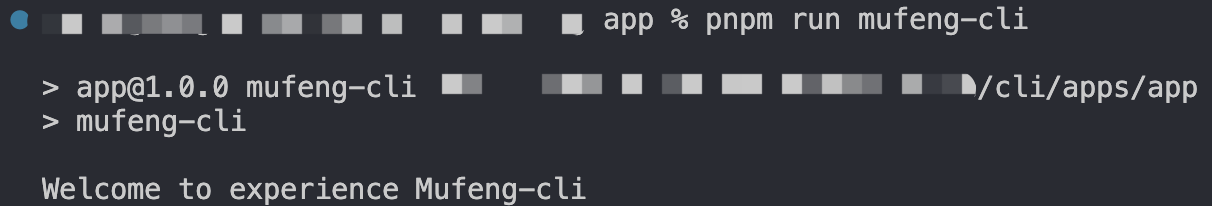
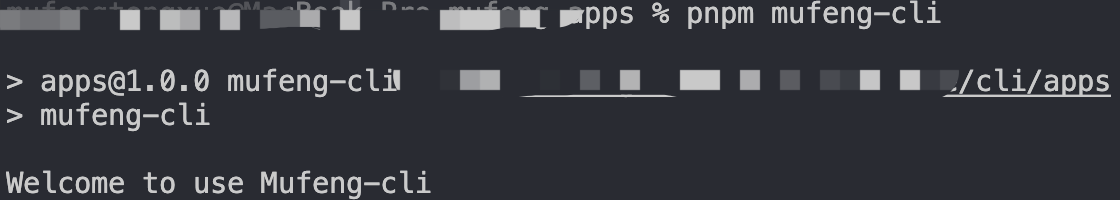
feat: update cli

Changed region(s): [[0.0, 0.33, 1.0, 0.66], [0.0, 0.0, 0.8438, 0.18], [0.0, 0.84, 0.5, 1.0]]

diff --git a/docs/src/summary-middle/engineering/cli.md b/docs/src/summary-middle/engineering/cli.md
@@ -17,7 +17,7 @@ Node版本: v18.20.2（pnpm需要）
 
 关于 monorepo 可以参考 <a href="/blog/summary-middle/engineering/monorepo" target="_blank">Monorepo</a>。
 
-## 前提: 全局安装 pnpm
+### 前提: 全局安装 pnpm
 
 ```js
 npm install pnpm -g
@@ -32,14 +32,19 @@ npm install pnpm -g
 ```yml
 packages:
   - 'packages/*'
-  - 'apps/*'
+  - 'apps/**'
 ```
+
+> [!TIP]
+>
+> * **packaegs/\*** 表示 packages 所有直接子目录
+> * **apps/\*\*** 表示 apps 下所有目录
 
 配置后, 声明了 packages 和 apps 目录中子工程是同属一个工作空间的, 工作空间中的子工程编译打包的产物都可以被其它子工程引用。
 
 ### 3、在 packages下初始化项目
 
-在根目录下创建 packages 目录, 并在 packages 目录中新建 cli 目录。
+在根目录下创建 packages 目录, 并在 packages 目录中新建 mufeng-cli 目录。
 
 通过 `pnpm init` 命令来初始化一个工程。
 
@@ -67,12 +72,12 @@ packages:
 >
 > * **package.json** 中 bin 字段用于定义一个或多个项目的可执行文件的路径。当在全局安装一个 npm 包时, npm 会查找 bin 字段, 并将其指定的可执行文件创建一个符号链接到全局的 **node_modules/.bin** 目录下, 这样就可以在命令行中直接运行这些可执行文件了。
 
-在 `packages/cli` 中创建 bin 目录, 并新建 index.js, 并在文件中添加如下代码:
+在 `packages/mufeng-cli` 中创建 bin 目录, 并新建 index.js, 并在文件中添加如下代码:
 
 ```js
 #!/usr/bin/env node
 
-console.log('Welcome to experience Mufeng-cli');
+console.log('Welcome to use Mufeng-cli');
 ```
 
 > [!TIP]
@@ -81,15 +86,15 @@ console.log('Welcome to experience Mufeng-cli');
 > * **/usr/bin/env** 是一个 Unix/Linux 系统中用来查找环境中的可执行文件的标准路径, **node** 是 Node.js 的可执行文件名。
 > * 具体来说, 就是告诉操作系统在执行这个脚本时使用 node解释器。
 
-在根目录下创建 apps 目录, 并在 apps 目录中新建 app 目录。
+在根目录下创建 apps 目录。
 
 通过 `pnpm init` 命令来初始化一个工程。
 
-我们在 apps/app/pakeage.json 中添加 dependencies 字段, 来添加 mufeng-cli 依赖。再给 scripts 增加一条自定义脚本命令。完成后代码如下:
+我们在 apps/pakeage.json 中添加 dependencies 字段, 来添加 mufeng-cli 依赖。再给 scripts 增加一条自定义脚本命令。完成后代码如下:
 
 ```json
 {
-  "name": "app",
+  "name": "apps",
   "version": "1.0.0",
   "description": "",
   "main": "index.js",
@@ -108,7 +113,7 @@ console.log('Welcome to experience Mufeng-cli');
 
 然后在最外层根目录下运行 pnpm i 命令, 安装依赖。
 
-安装成功后, 在 app 目录下运行 pnpm mufeng-cli, 会发现命令行窗口打印出 Welcome to experience Mufeng-cli, 脚手架工程的搭建就成功了。
+安装成功后, 在 apps 目录下运行 pnpm mufeng-cli, 会发现命令行窗口打印出 Welcome to experience Mufeng-cli, 脚手架工程的搭建就成功了。
 
 ![mufeng-cli log](/imgs/summary-middle/engineering/cli_1.png)
 
@@ -118,9 +123,8 @@ console.log('Welcome to experience Mufeng-cli');
 |-- cli
   |-- node_modules
   |-- apps
-    |-- app
-      |-- node_modules
-      |-- package.json
+    |-- node_modules
+    |-- package.json
   |-- packages
     |-- mufeng-cli
       |-- bin
@@ -183,7 +187,7 @@ const yargs = require('yargs');
 console.log('name', yargs.argv.name);
 ```
 
-在 /apps/app 目录下运行 pnpm mufeng-cli --name=hello, 结果如图所示:
+在 /apps 目录下运行 pnpm mufeng-cli --name=hello, 结果如图所示:
 
 ![mufeng-cli yargs](/imgs/summary-middle/engineering/cli_2.png)
 
@@ -235,7 +239,7 @@ yargs.command(
 >
 > * .argv 的作用是告诉 yargs 库解析命令行参数, 并将解析后的结果存储在 argv 变量中, 以便在后续代码中使用。
 
-在 /apps/app 目录下分别运行 pnpm mufeng-cli create --name=hello 和 pnpm mufeng-cli c --name=hello 命令, 执行结果如下图所示:
+在 /apps 目录下分别运行 pnpm mufeng-cli create --name=hello 和 pnpm mufeng-cli c --name=hello 命令, 执行结果如下图所示:
 
 ![mufeng-cli create](/imgs/summary-middle/engineering/cli_3.png)
 
@@ -392,7 +396,7 @@ const cliInit = () => {
 cliInit();
 ```
 
-在/apps/app目录下执行 `pnpm mufeng-cli c --n=hello`, 结果如图所示：
+在 /apps 目录下执行 `pnpm mufeng-cli c --n=hello`, 结果如图所示：
 
 ![mufeng-cli inquirer](/imgs/summary-middle/engineering/cli_4.png)
 
@@ -409,3 +413,71 @@ cliInit();
 ```sh
 pnpm add copy-dir --F mufeng-cli
 ```
+
+在 /packages/mufeng-cli/bin 目录下新建 copy.js 文件, 代码如下：
+
+```js
+const fs = require('fs');
+const copydir = require('copy-dir');
+
+/**
+ * 复制文件
+ */
+const copyDir = (from, to, options) => {
+  copydir.sync(from, to, options);
+};
+
+/**
+ * 判断目录是否存在
+ */
+const checkMkdirExists = (path) => fs.existsSync(path);
+
+exports.copyDir = copyDir;
+exports.checkMkdirExists = checkMkdirExists;
+```
+
+在 packages/mufeng-cli 目录下新建 template 目录用来存放模版文件。
+
+比如在 template 目录中创建一个 vue 目录来存放 vue 项目模版，文件目录如下：
+
+```md
+|-- cli
+  |-- node_modules
+  |-- apps
+    |-- node_modules
+    |-- package.json
+  |-- packages
+    |-- mufeng-cli
+      |-- bin
+        |-- index.js
+      |-- template
+        |-- vue
+          |-- app.vue
+      |-- package.json
+  |-- package.json
+  |-- pnpm-lock.yaml
+  |-- pnpm-workspace.yaml
+
+```
+
+下面实现把 packages/mufeng-cli/template/vue 这个目录下的所有文件拷贝到 /apps 目录中。
+
+在 /packages/mufeng-cli/bin/index.js 代码：
+
+```js
+
+```
+
+> [!TIP]
+
+> copyDir(from, to, options)
+>
+> * **from**: 要拷贝目录的路径
+> * **to**: 文件拷贝的目标路径
+> * **options**: 指定额外的选项和配置，以控制复制过程的行为
+
+> [!TIP]
+> 脚手架中处理路径时经常使用 **Nodejs** 中 **path** 模块提供的 `path.resolve([...path])`, 将传入的多个 path参数拼接成一个绝对路径。
+>
+> * **__dirname** 是用来动态获取当前文件模块所属目录的绝对路径。比如在 bin/index.js 文件中使用 __dirname ，__dirname 表示就是 bin/index.js 文件所属目录的绝对路径: `/packages/mufeng-cli/bin`。
+> * **process.cwd()** 当前 Nodejs 进程执行时的文件所属目录的绝对路径。比如在 bin 文件夹目录下运行 node index.js 时，process.cwd() 得到的是 `/packages/mufeng-cli/bin`。
